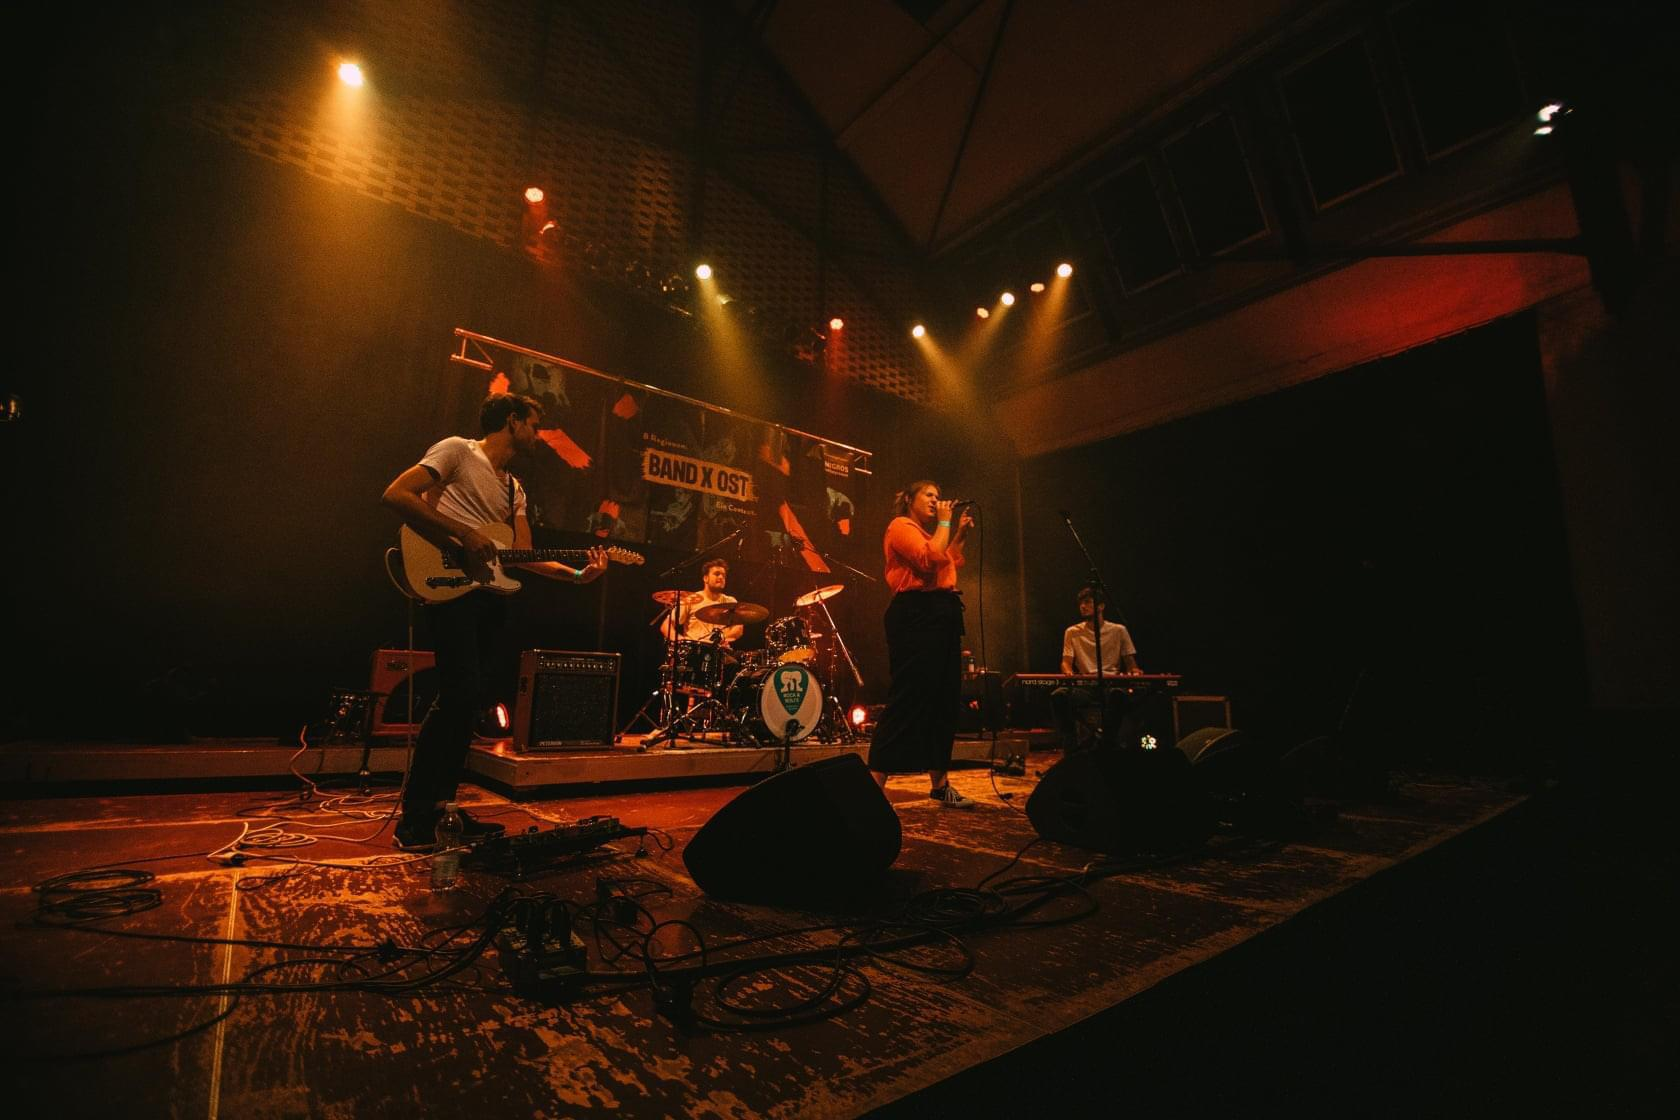
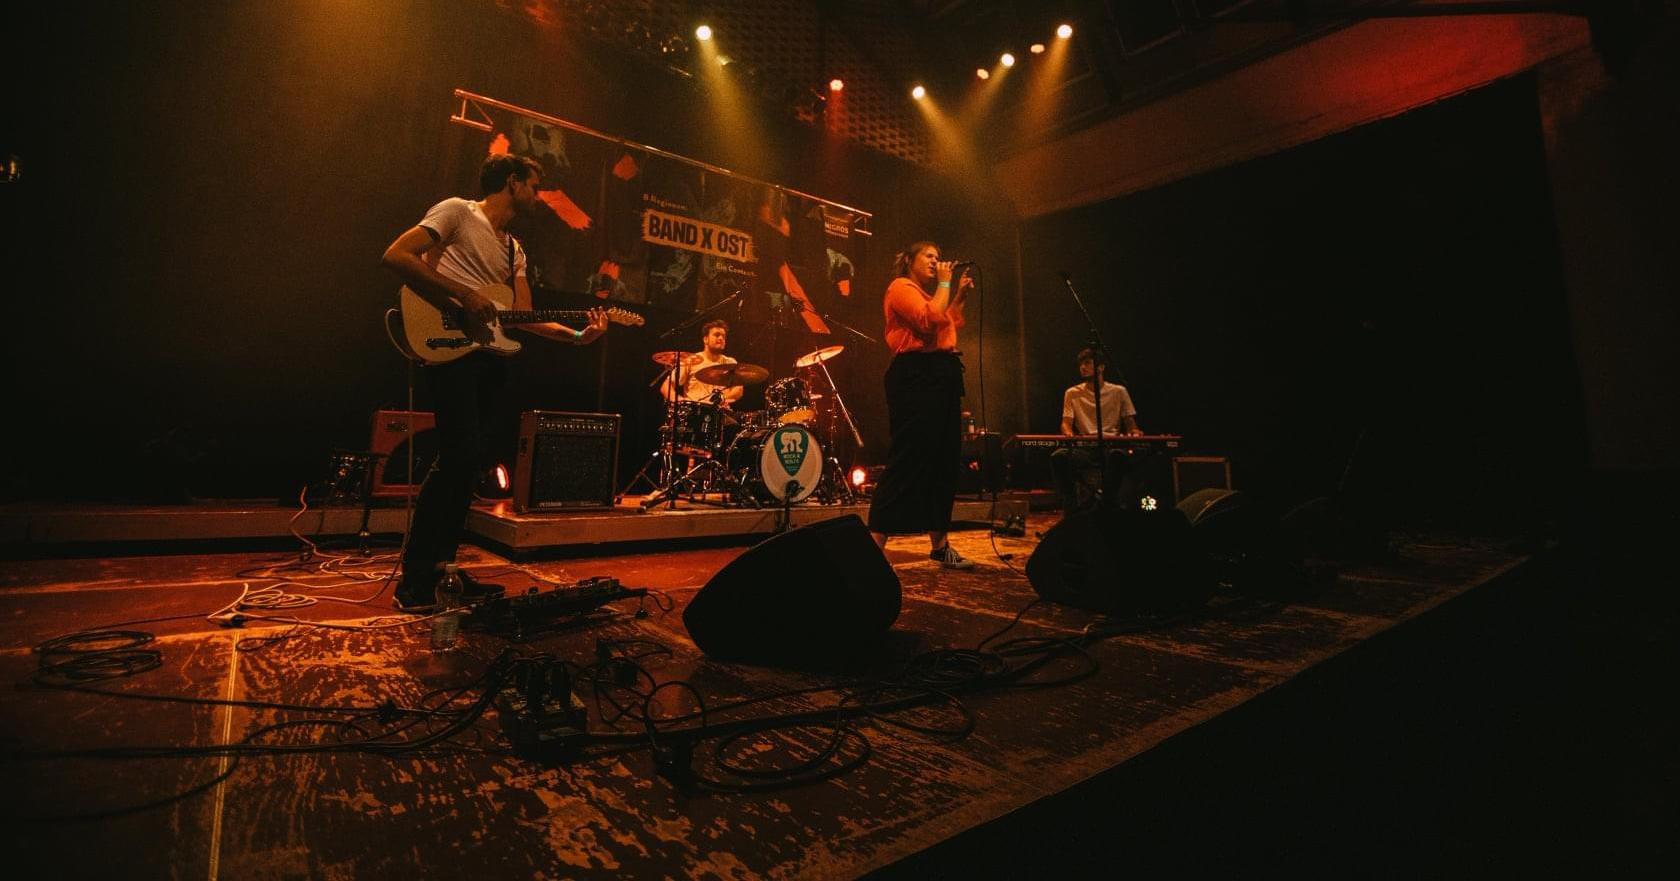
new header

diff --git a/assets/scss/components/_hero.scss b/assets/scss/components/_hero.scss
@@ -1,0 +1,58 @@
+.site-hero{
+  position: relative;
+  height: 100vh;
+  background-size: cover;
+  background-position: center center;
+  display: flex;
+  align-items: center;
+  justify-content: center;
+  @include desktop{
+    height: auto;
+    padding: 300px 0 100px 0;
+  }
+  @include mobile{
+    padding: 150px 0;
+  }
+  &-content{
+    h1{
+      margin-bottom: 75px;
+      @include desktop-lg{
+        font-size: 50px;
+        margin-bottom: 50px;
+      }
+      @include mobile{
+        font-size: 40px;
+      }
+    }
+    &-buttons{
+      margin: 0;
+      padding: 0;
+      li{
+        display: inline-block;
+        @include mobile{
+          display: block;
+        }
+        &:not(:last-child){
+          margin-right: 30px;
+          @include mobile{
+            margin-right: 0;
+            margin-bottom: 20px;
+          }
+        }
+        .btn{
+          font-weight: 600;
+          @include mobile{
+            width: 90%;
+            margin: 0 auto;
+            display: block;
+          }
+        }
+      }
+    }
+  }
+  &-scroll{
+    position: absolute;
+    left: 50%; bottom: 70px;
+    transform: translateX(-50%);
+  }
+}

diff --git a/assets/scss/_custom.scss b/assets/scss/_custom.scss
@@ -1,13 +1,18 @@
 .site-hero {
+    .container {
+        @include desktop-lg{
+            padding-top: 25vh;            
+        }
+    }
+
     .mx-auto {
         padding: 4rem 0;
         background-color: rgba(0,0,0,.7);
-    }
-    img {
-        width: 80%;
+        img {
+            width: 50%;
+        }
     }
 }
-
 
 .icon-img {
     width: 2.5rem;
